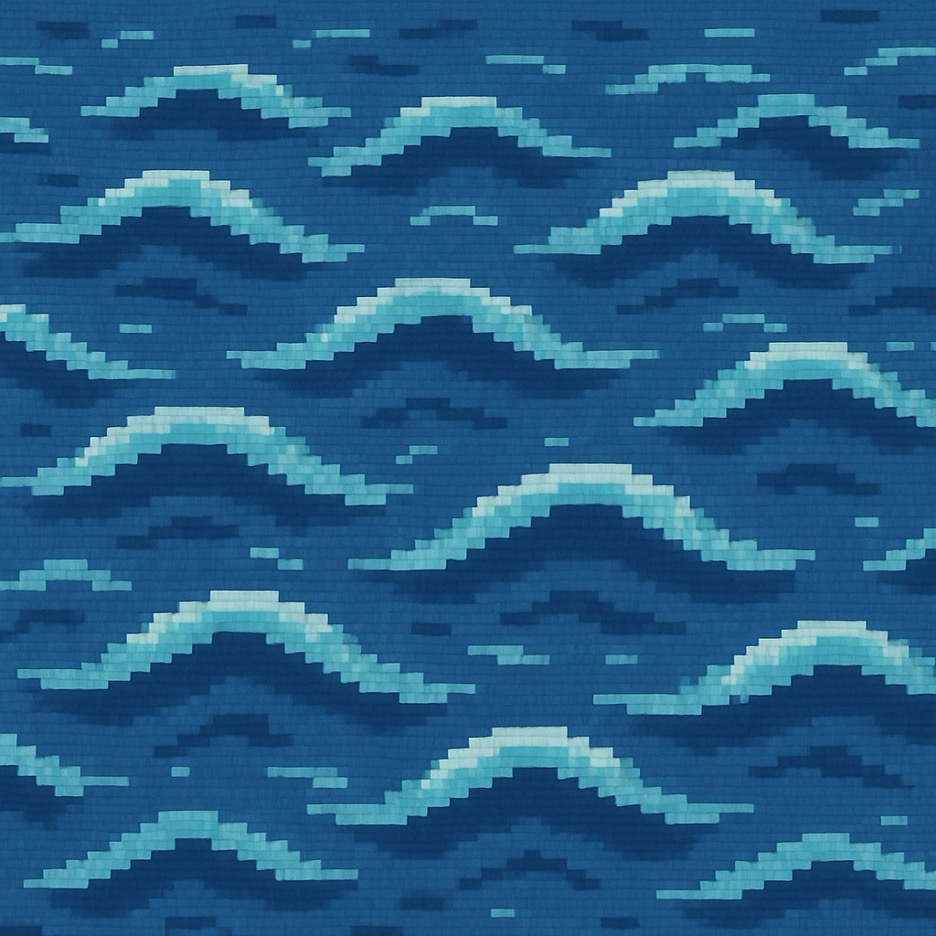
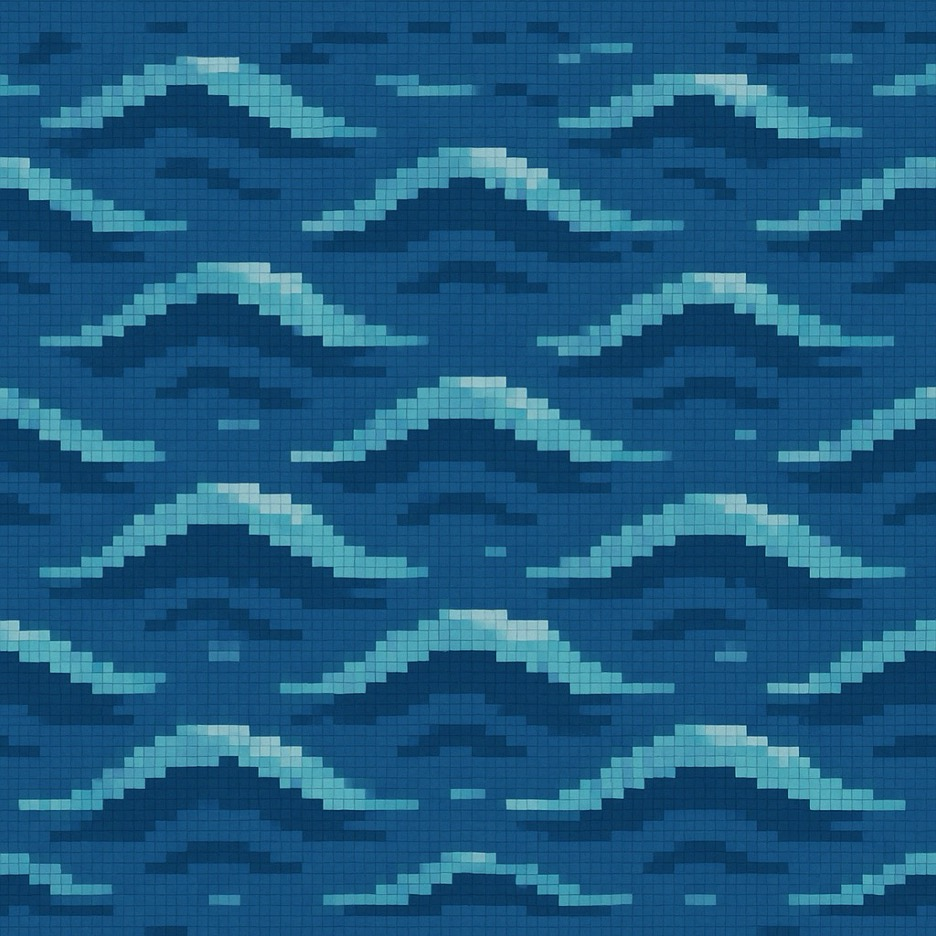
more ocean logic introduced

diff --git a/src/graphicsTogether.py b/src/graphicsTogether.py
@@ -62,11 +62,21 @@ def onAppStart(app):
     ]
 
     app.score = 0 
+    oceanStart(app)
+
+
+def oceanStart(app):
+    app.frames = ["15112-ocean0.jpg", "15112-ocean1.jpg"]
+    app.currentFrameIndex = 0
+    app.tileWidth = 600  # Width of each tile
+    app.tileHeight = 600  # Height of each tile
+
 
 def redrawAll(app):
     if app.startPage:
         drawStart(app)
     elif app.hole1:
+        drawOcean(app)
         drawHole1(app)
         drawBall(app)
         if not app.ballInMotion:
@@ -79,8 +89,12 @@ def redrawAll(app):
         drawCardPage(app)
         drawHoleButton(app)
         
-
-
+def drawOcean(app):
+    # Display the current frame in tiled chunks
+    currentFrame = app.frames[app.currentFrameIndex]
+    for x in range(0, app.width, app.tileWidth):
+        for y in range(0, app.height, app.tileHeight):
+            drawImage(currentFrame, x, y, width=app.tileWidth, height=app.tileHeight)
 
 def getScreenCoords(app, x, y):
     screenX = x - app.scrollX + app.width / 2
@@ -98,7 +112,6 @@ def flatten(points):
     return [coord for point in points for coord in point]
 
 def drawHole1(app):
-    drawRect(0, 0, app.width, app.height, fill='darkBlue')
     outlines = getHoleData()
 
     #Used chatGPT to help with the drawCoursePolygon function
@@ -273,7 +286,7 @@ def onStep(app):
         app.scrollX += app.ballVelocityX * step
         app.scrollY -= app.ballVelocityZ * step
         # Check if ball has landed
-        if app.ballZ <= 0 and app.ballVelocityZ <= 0:
+        if app.ballZ <= 0 and app.ballVelocityZ < 0:
             app.ballZ = 0
             app.ballInMotion = False
             app.ballVelocityZ = 0 
@@ -285,6 +298,8 @@ def onStep(app):
         holeX, holeY = findHoleCenter()
         if distance(app.ballX, app.ballY, holeX, holeY) <= app.ballRadius:
             app.cardPage = True 
+    if not app.startPage: # For the the ocean
+        app.currentFrameIndex = (app.currentFrameIndex + 1) % len(app.frames)
     
 
 

diff --git a/src/ocean.py b/src/ocean.py
@@ -4,8 +4,8 @@ def onAppStart(app):
     app.frames = ["15112-ocean0.jpg", "15112-ocean1.jpg"]
     app.currentFrameIndex = 0
     app.stepsPerSecond = 2
-    app.tileWidth = 100  # Width of each tile
-    app.tileHeight = 100  # Height of each tile
+    app.tileWidth = 200  # Width of each tile
+    app.tileHeight = 200  # Height of each tile
 
 def onStep(app):
     # Alternate between the frames
